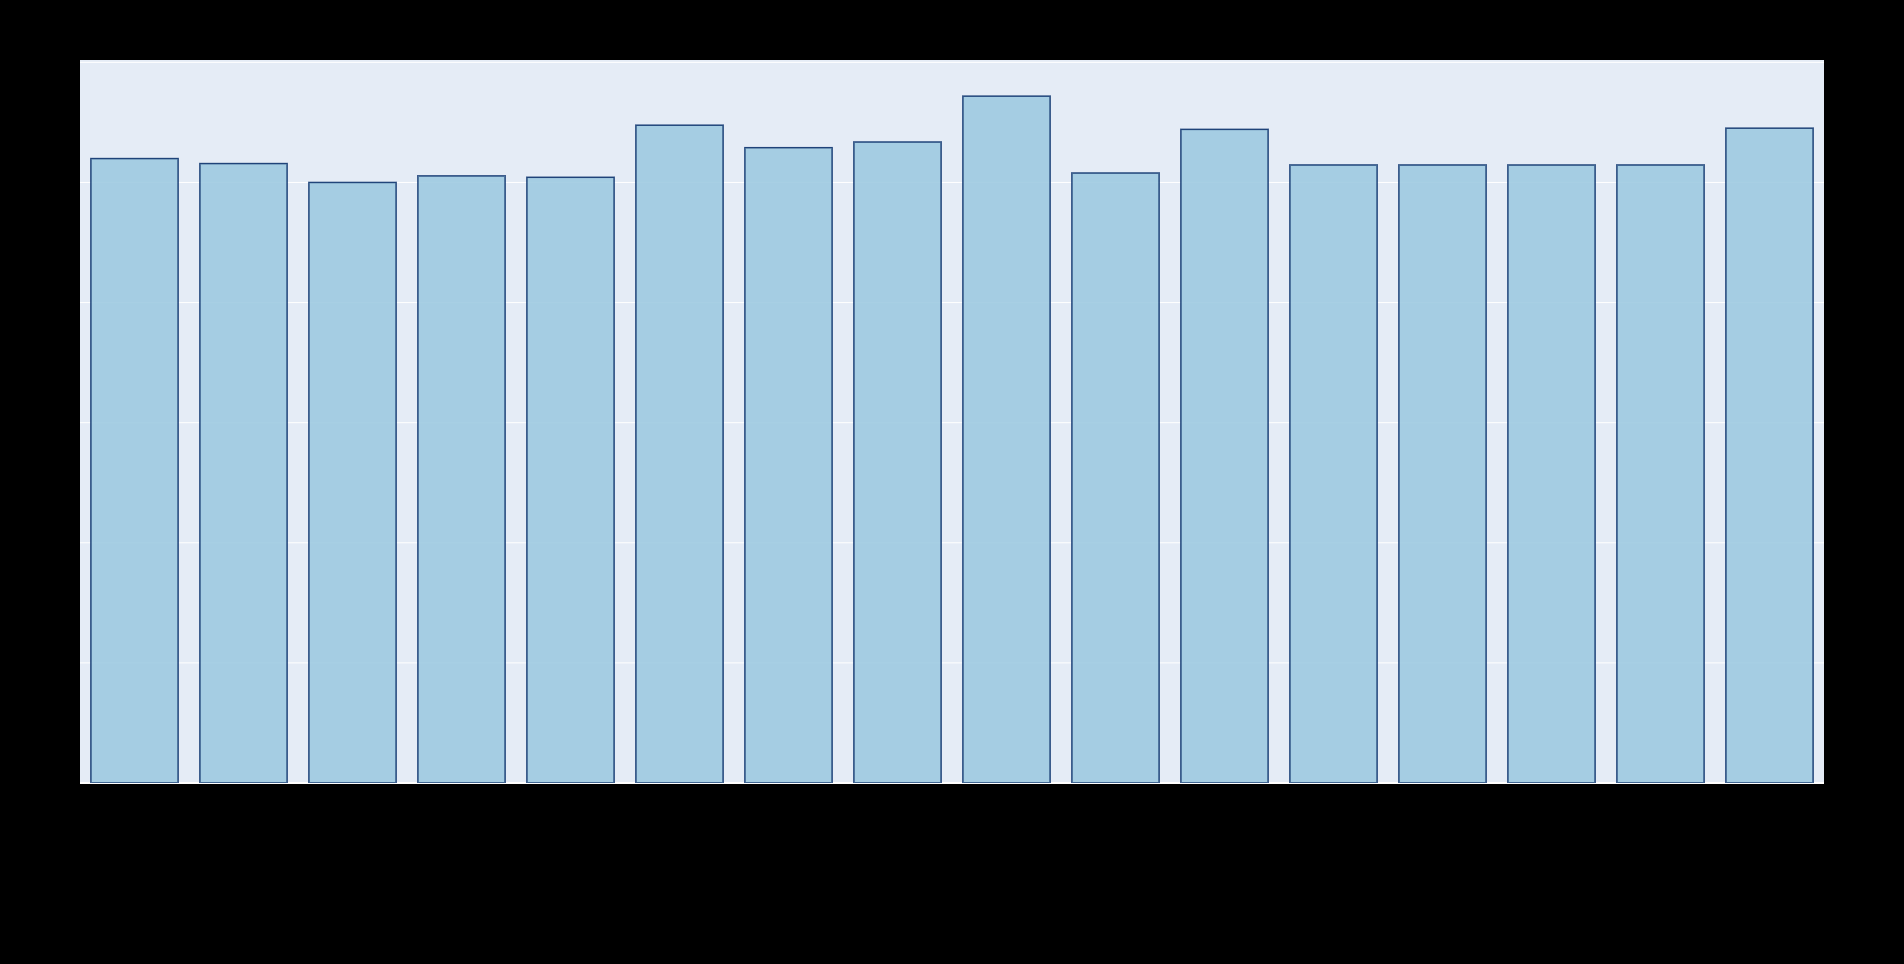
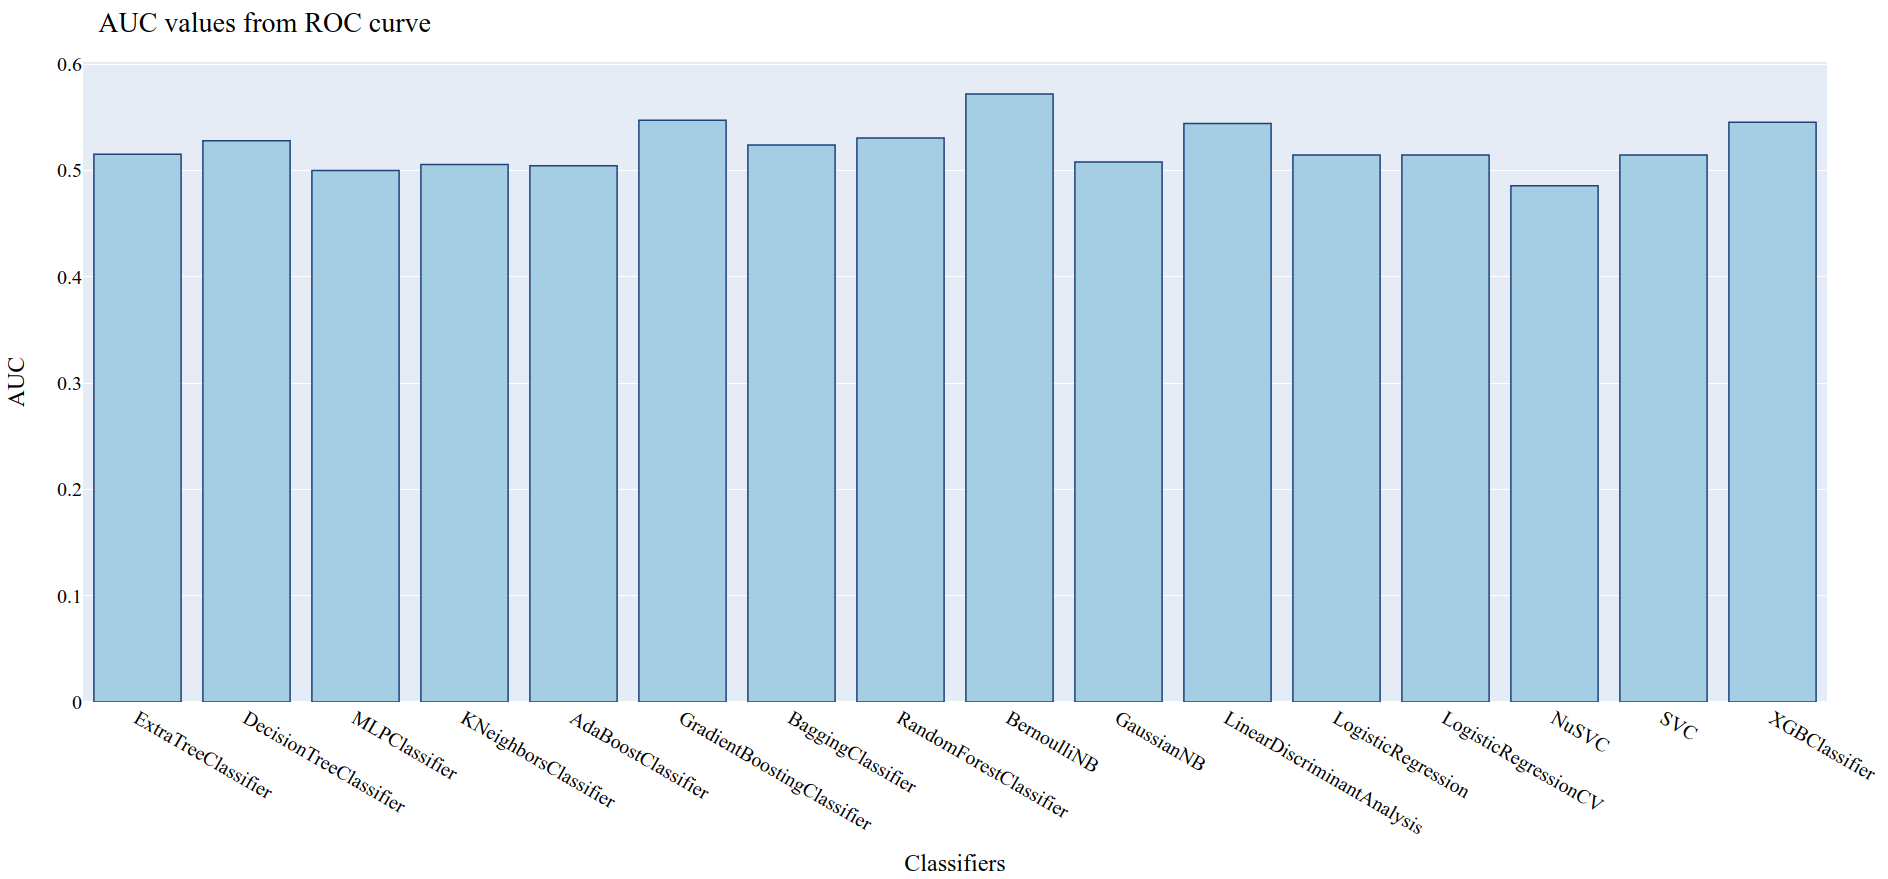
train/test to predict recent games

diff --git a/NBA_ML.py b/NBA_ML.py
@@ -555,14 +555,14 @@ def main():
         X, y, test_size=0.3, shuffle=False, random_state=None,
     )
     classifiers = [
-        ExtraTreeClassifier(random_state=2408),
-        DecisionTreeClassifier(random_state=2408),
+        ExtraTreeClassifier(),
+        DecisionTreeClassifier(),
         MLPClassifier(),
         KNeighborsClassifier(),
         AdaBoostClassifier(),
         GradientBoostingClassifier(),
         BaggingClassifier(),
-        RandomForestClassifier(random_state=2408),
+        RandomForestClassifier(),
         BernoulliNB(),
         GaussianNB(),
         LinearDiscriminantAnalysis(),
